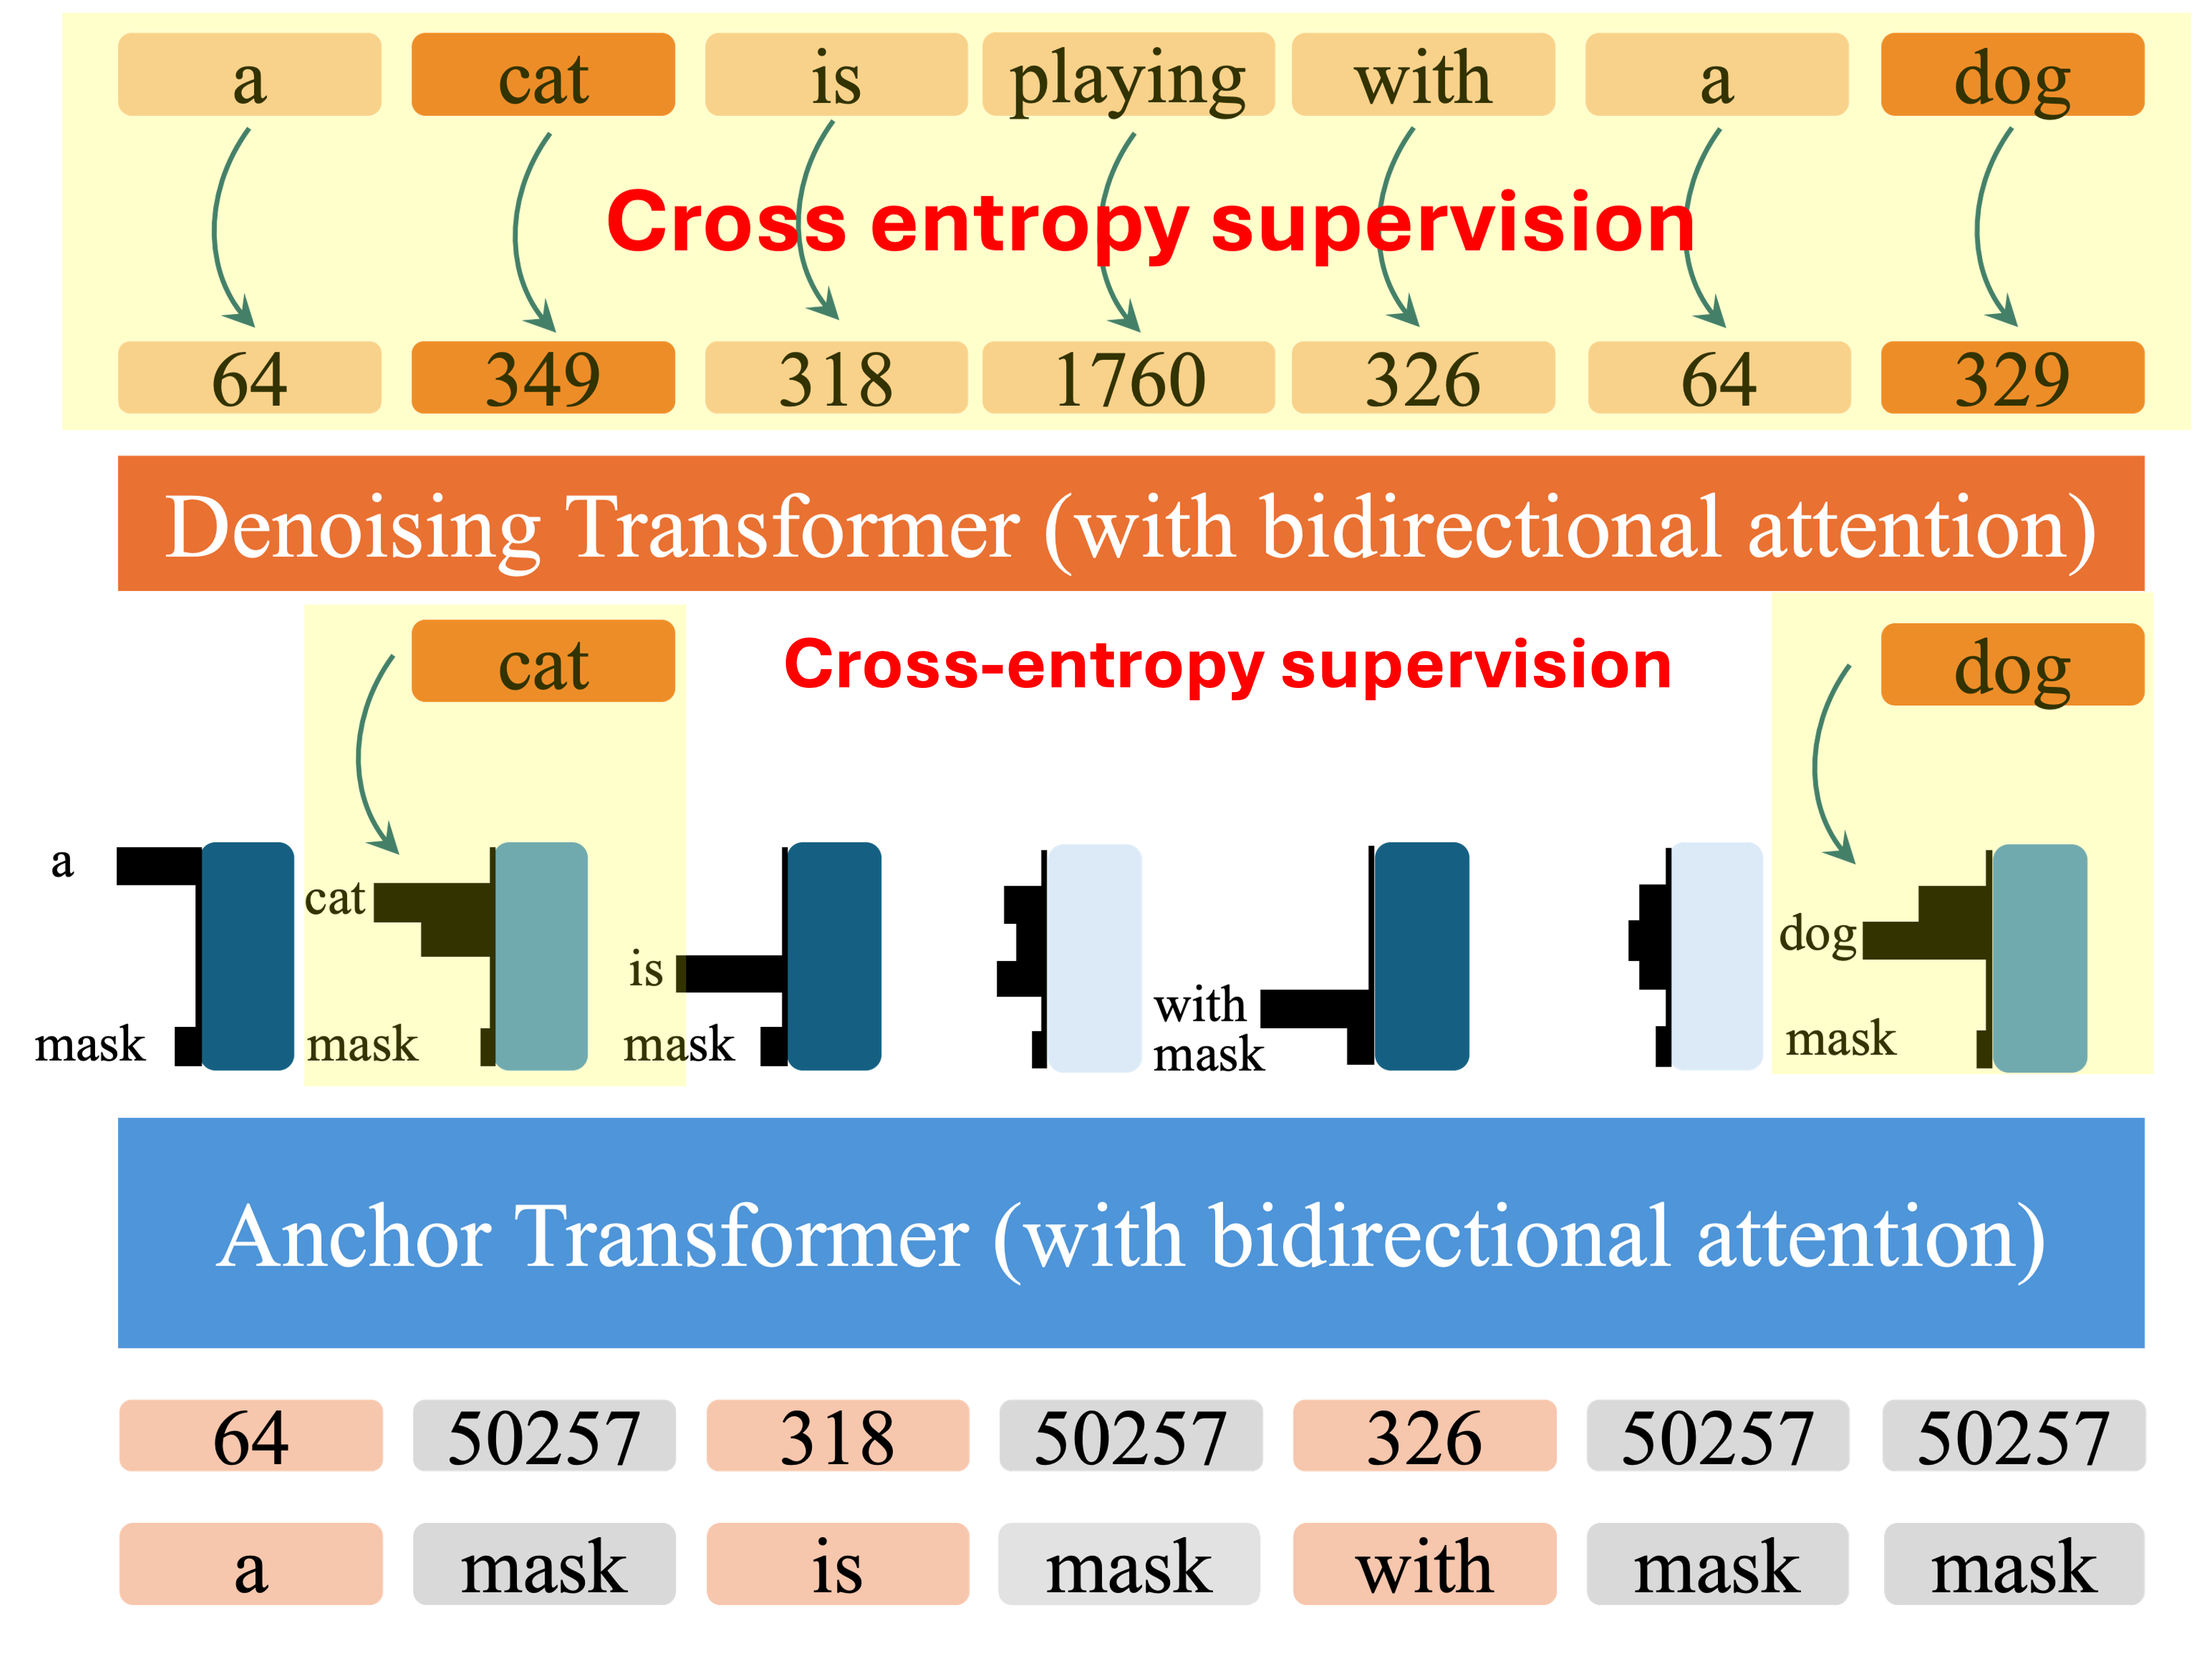
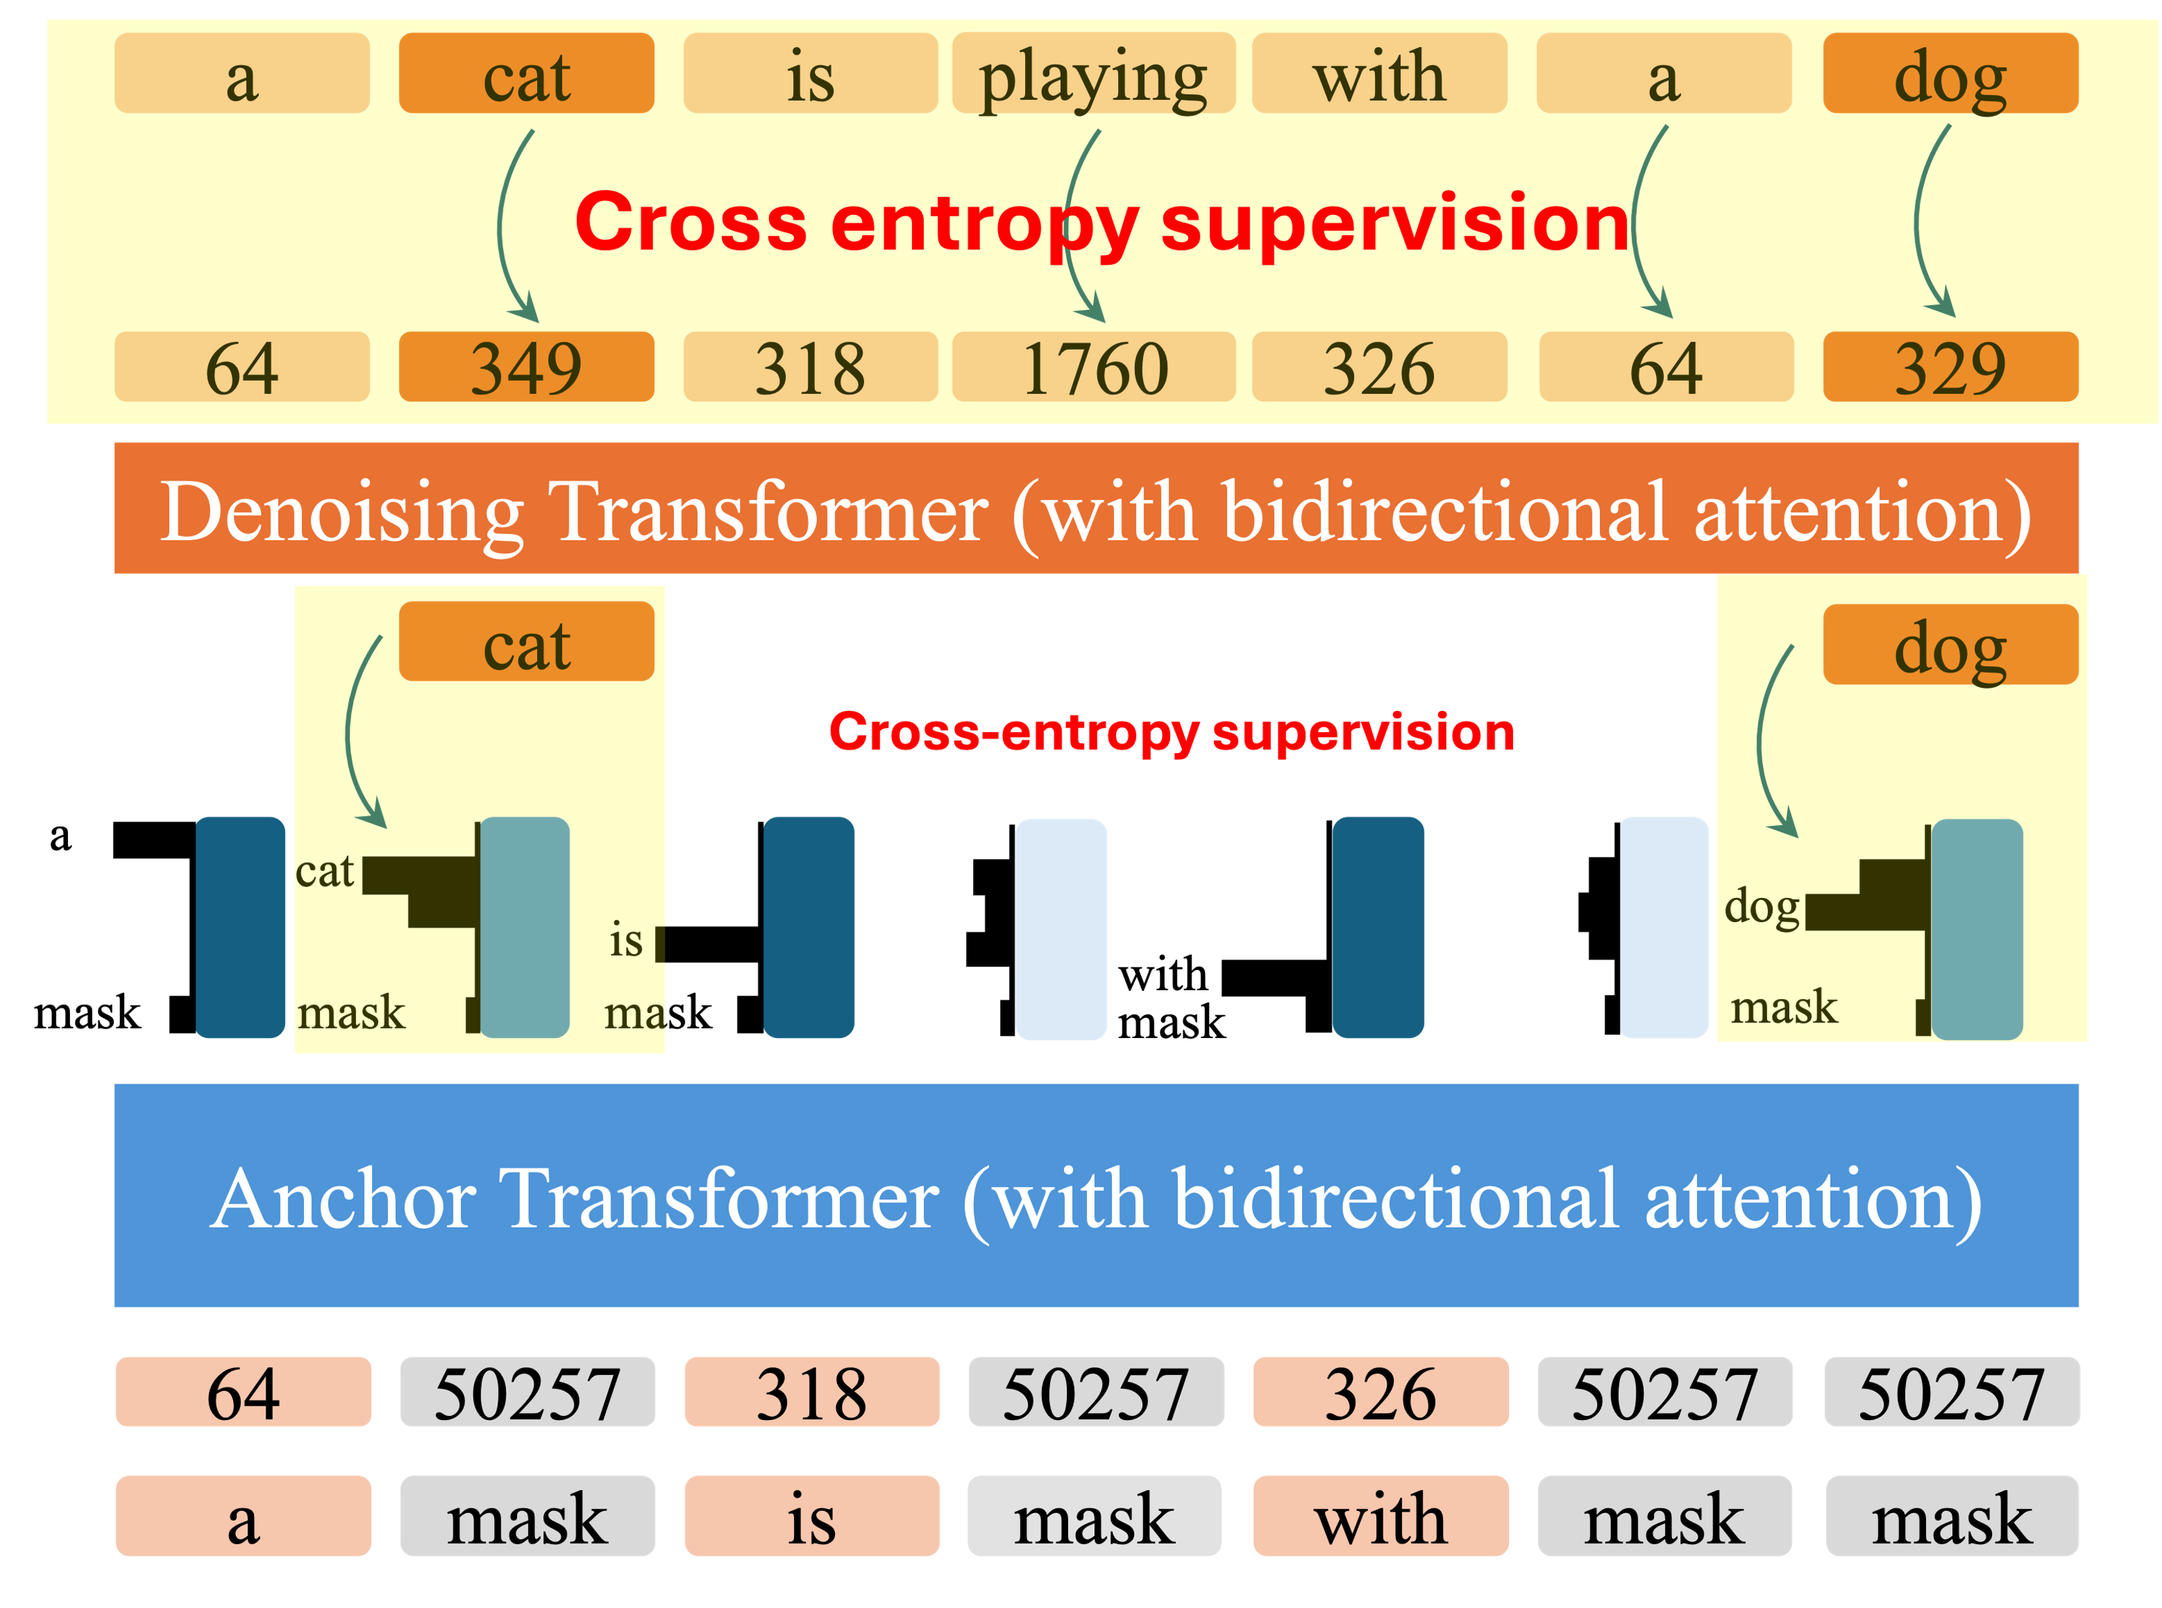
change adlm training figure

diff --git a/index.html b/index.html
@@ -128,7 +128,8 @@
       the masked tokens.
     <p>Supervising latent thoughts using anchor tokens:</p>
     <ol>
-      <li><strong>Denoising Transformer:</strong> Cross-entropy loss on all output tokens of the denoiser.
+      <li><strong>Denoising Transformer:</strong> Cross-entropy loss at mask positions computed using the output of the
+        denoiser.
         Note that the carry-over unmasking parameterization is used to enforce no loss on the already unmasked tokens.
       </li>
       <li><strong>Anchor Transformer:</strong> Supervise only the important anchor tokens.</li>
